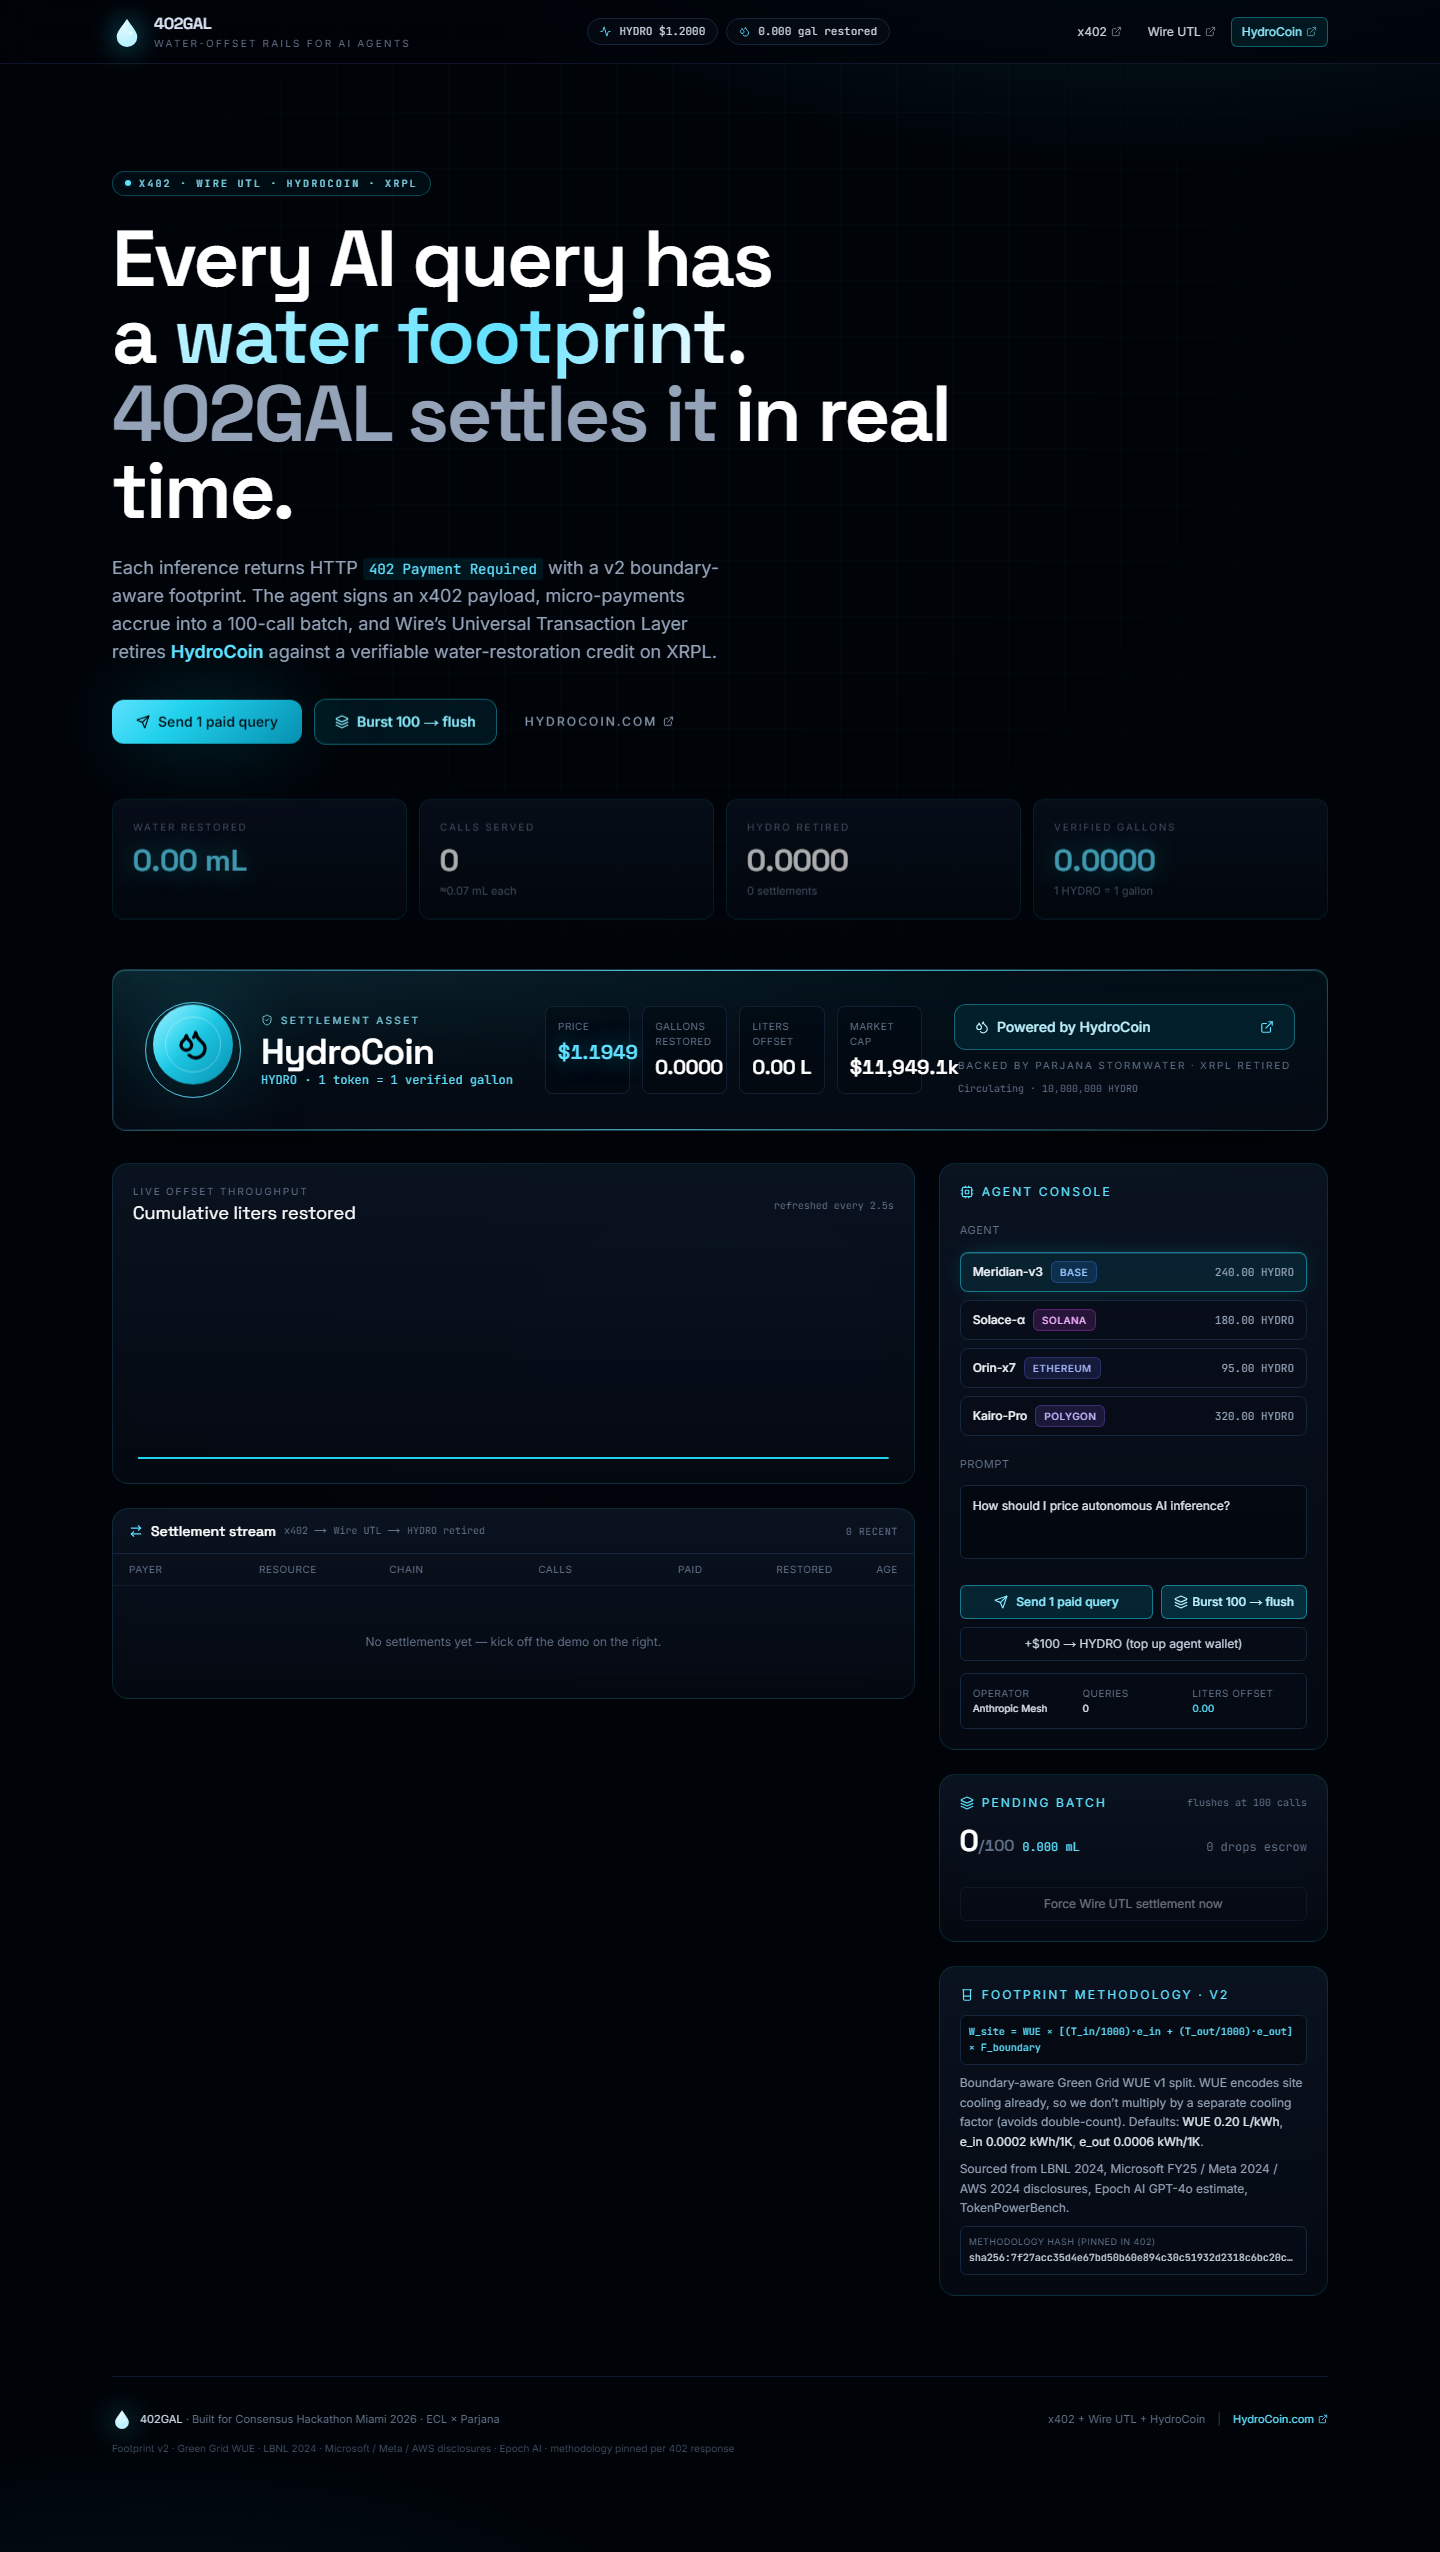
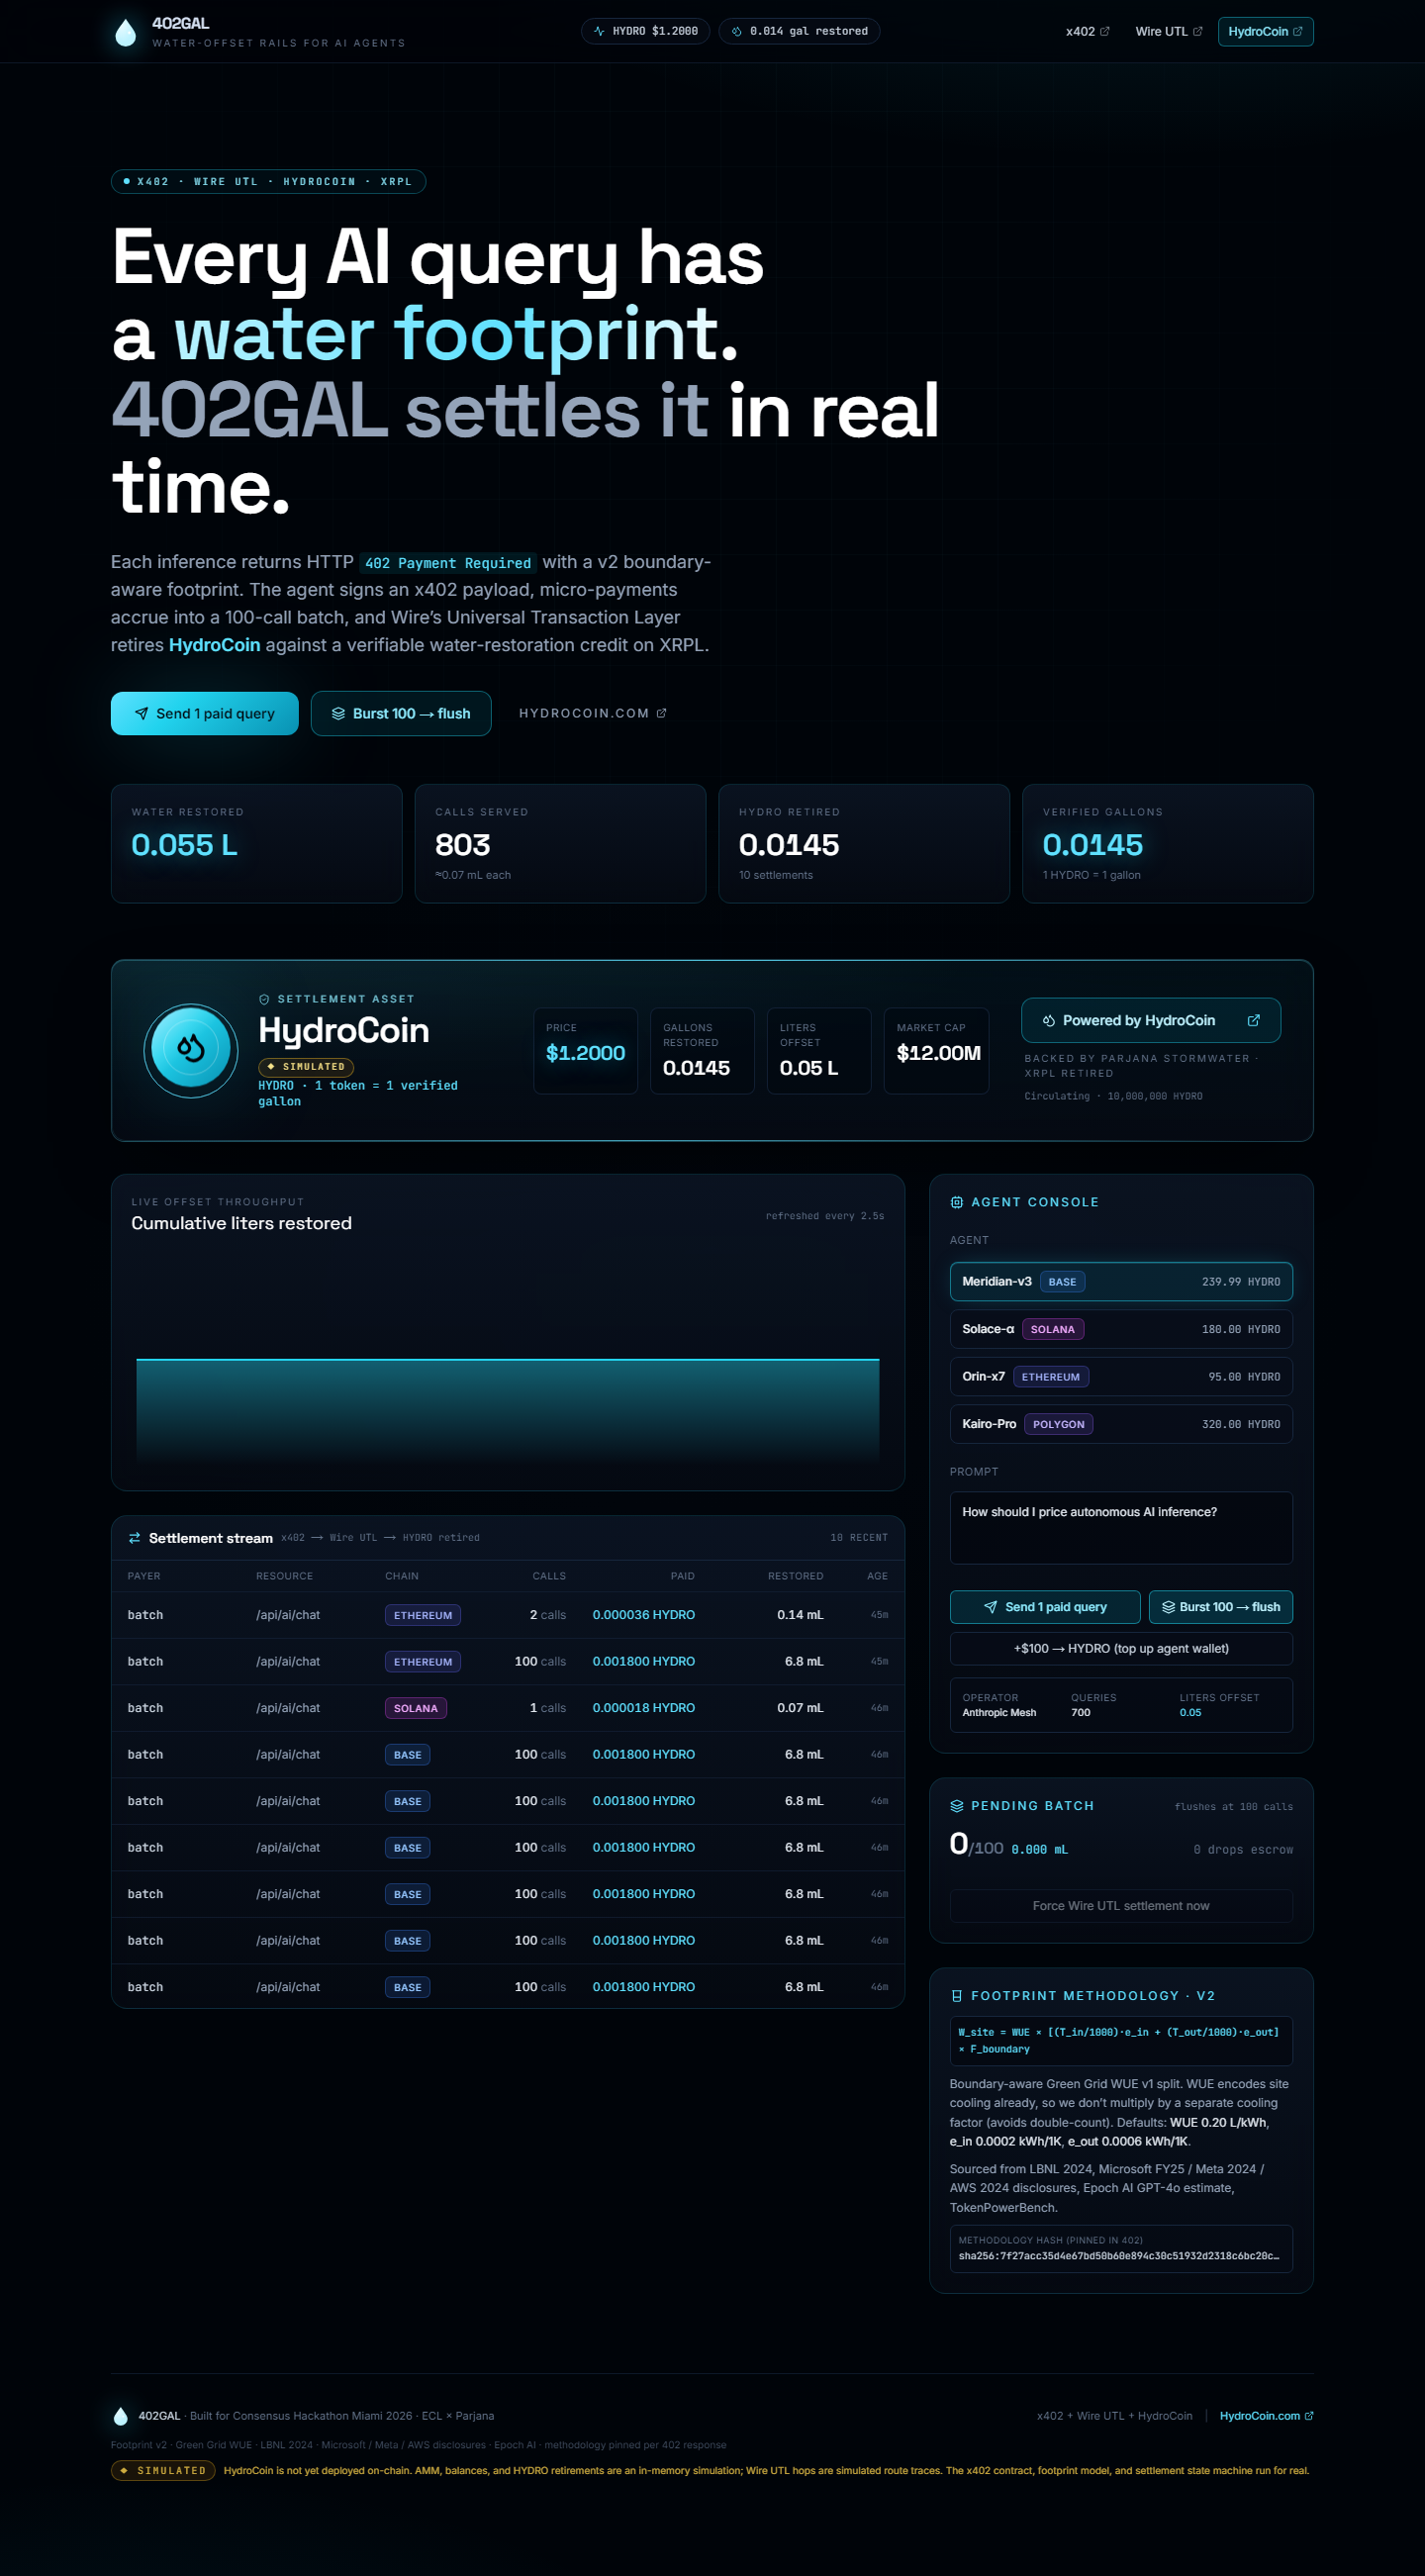
rebrand to 402gal + simulation disclosures + ssr-safe counters

diff --git a/components/AnimatedNumber.tsx b/components/AnimatedNumber.tsx
@@ -1,7 +1,6 @@
 "use client";
 
-import { useEffect, useRef } from "react";
-import { animate, useMotionValue, useTransform, motion } from "framer-motion";
+import { useEffect, useRef, useState } from "react";
 
 interface Props {
   value: number;
@@ -12,7 +11,11 @@ interface Props {
   suffix?: string;
 }
 
-/** Smooth tween between value changes. Tabular numerals so width stays stable. */
+/**
+ * SSR-safe smooth-counter. Always renders the formatted value as plain text
+ * (no framer MotionValue), so the very first paint shows real numbers — not
+ * an empty box. On prop change it eases from current to new with cubic-out.
+ */
 export function AnimatedNumber({
   value,
   decimals = 0,
@@ -21,24 +24,41 @@ export function AnimatedNumber({
   prefix = "",
   suffix = "",
 }: Props) {
-  const mv = useMotionValue(value);
-  const display = useTransform(mv, (v) => {
-    const formatted = v.toLocaleString(undefined, {
-      minimumFractionDigits: decimals,
-      maximumFractionDigits: decimals,
-    });
-    return `${prefix}${formatted}${suffix}`;
-  });
-  const prev = useRef(value);
+  const [displayed, setDisplayed] = useState(value);
+  const fromRef = useRef(value);
+  const startRef = useRef<number | null>(null);
+  const rafRef = useRef<number | null>(null);
 
   useEffect(() => {
-    const controls = animate(mv, value, {
-      duration,
-      ease: [0.16, 1, 0.3, 1],
-    });
-    prev.current = value;
-    return controls.stop;
-  }, [value, duration, mv]);
+    if (rafRef.current != null) cancelAnimationFrame(rafRef.current);
+    fromRef.current = displayed;
+    startRef.current = null;
+    const to = value;
+    const ms = Math.max(0.05, duration) * 1000;
 
-  return <motion.span className={`tick ${className}`}>{display}</motion.span>;
+    const tick = (now: number) => {
+      if (startRef.current == null) startRef.current = now;
+      const t = Math.min(1, (now - startRef.current) / ms);
+      const eased = 1 - Math.pow(1 - t, 3);
+      setDisplayed(fromRef.current + (to - fromRef.current) * eased);
+      if (t < 1) rafRef.current = requestAnimationFrame(tick);
+    };
+    rafRef.current = requestAnimationFrame(tick);
+    return () => {
+      if (rafRef.current != null) cancelAnimationFrame(rafRef.current);
+    };
+    // eslint-disable-next-line react-hooks/exhaustive-deps
+  }, [value, duration]);
+
+  const formatted = displayed.toLocaleString(undefined, {
+    minimumFractionDigits: decimals,
+    maximumFractionDigits: decimals,
+  });
+  return (
+    <span className={`tick ${className}`}>
+      {prefix}
+      {formatted}
+      {suffix}
+    </span>
+  );
 }

diff --git a/components/HydroCoinPanel.tsx b/components/HydroCoinPanel.tsx
@@ -34,9 +34,9 @@ export function HydroCoinPanel({
         <div className="absolute -inset-x-20 top-0 h-px bg-gradient-to-r from-transparent via-hydro-300/70 to-transparent" />
       </div>
 
-      <div className="relative grid grid-cols-1 gap-8 lg:grid-cols-[auto,1fr,auto] lg:items-center">
+      <div className="relative grid grid-cols-1 gap-6 lg:grid-cols-12 lg:items-center lg:gap-8">
         {/* ── Coin orb ── */}
-        <div className="flex items-center gap-5">
+        <div className="flex items-center gap-5 lg:col-span-4">
           <div className="relative h-20 w-20 shrink-0 sm:h-24 sm:w-24">
             <span className="ring-pulse" />
             <span className="ring-pulse" style={{ animationDelay: "0.8s" }} />
@@ -54,8 +54,16 @@ export function HydroCoinPanel({
             <div className="flex items-center gap-2 text-[10px] uppercase tracking-[0.24em] text-hydro-200/80">
               <ShieldCheck size={12} /> Settlement asset
             </div>
-            <div className="mt-1 font-display text-3xl font-semibold tracking-tight text-white sm:text-4xl">
-              HydroCoin
+            <div className="mt-1 flex flex-wrap items-center gap-2">
+              <span className="font-display text-3xl font-semibold tracking-tight text-white sm:text-4xl">
+                HydroCoin
+              </span>
+              <span
+                title="HydroCoin is not yet deployed on-chain. AMM, balances, and HYDRO retirements shown here are an in-memory simulation of the constant-product economics."
+                className="inline-flex items-center gap-1 rounded-full border border-amber-400/40 bg-amber-500/10 px-2 py-0.5 font-mono text-[9px] uppercase tracking-[0.18em] text-amber-200"
+              >
+                ◆ Simulated
+              </span>
             </div>
             <div className="font-mono text-xs text-hydro-300">
               HYDRO · 1 token = 1 verified gallon
@@ -64,7 +72,7 @@ export function HydroCoinPanel({
         </div>
 
         {/* ── Live stats ── */}
-        <div className="grid grid-cols-2 gap-3 sm:grid-cols-4 lg:grid-cols-2 xl:grid-cols-4">
+        <div className="grid grid-cols-2 gap-3 sm:grid-cols-4 lg:col-span-5 lg:grid-cols-4">
           <Tile label="Price" accent>
             <AnimatedNumber value={priceUSDC} decimals={4} prefix="$" />
           </Tile>
@@ -76,16 +84,16 @@ export function HydroCoinPanel({
           </Tile>
           <Tile label="Market cap">
             <AnimatedNumber
-              value={marketCap / 1000}
-              decimals={1}
+              value={marketCap / 1_000_000}
+              decimals={2}
               prefix="$"
-              suffix="k"
+              suffix="M"
             />
           </Tile>
         </div>
 
         {/* ── CTA ── */}
-        <div className="flex flex-col gap-2">
+        <div className="flex flex-col gap-2 lg:col-span-3">
           <a
             href="https://www.hydrocoin.com/"
             target="_blank"

diff --git a/components/Dashboard.tsx b/components/Dashboard.tsx
@@ -877,6 +877,17 @@ function Footer() {
         Footprint v2 · Green Grid WUE · LBNL 2024 · Microsoft / Meta / AWS
         disclosures · Epoch AI · methodology pinned per 402 response
       </div>
+      <div className="mt-2 flex flex-wrap items-center gap-2 text-[10px] text-amber-300/80">
+        <span className="inline-flex items-center gap-1 rounded-full border border-amber-400/30 bg-amber-500/10 px-2 py-0.5 font-mono uppercase tracking-[0.18em]">
+          ◆ Simulated
+        </span>
+        <span>
+          HydroCoin is not yet deployed on-chain. AMM, balances, and HYDRO
+          retirements are an in-memory simulation; Wire UTL hops are
+          simulated route traces. The x402 contract, footprint model, and
+          settlement state machine run for real.
+        </span>
+      </div>
     </footer>
   );
 }

diff --git a/app/api/agents/route.ts b/app/api/agents/route.ts
@@ -1,6 +1,6 @@
 import { ledger } from "@/lib/ledger";
 
-export const runtime = "edge";
+export const runtime = "nodejs";
 
 export async function GET() {
   return Response.json({ agents: Array.from(ledger().agents.values()) });

diff --git a/app/api/ai/chat/route.ts b/app/api/ai/chat/route.ts
@@ -9,7 +9,7 @@ import { addToBatch, drainBatch, ledger } from "@/lib/ledger";
 import { settleBatch } from "@/lib/wire";
 import { BATCH_SIZE } from "@/lib/constants";
 
-export const runtime = "edge";
+export const runtime = "nodejs";
 
 const RESOURCE = "/api/ai/chat";
 

diff --git a/app/api/amm/buy/route.ts b/app/api/amm/buy/route.ts
@@ -4,7 +4,7 @@ import { NextRequest } from "next/server";
 import { executeBuyHydro } from "@/lib/amm";
 import { ledger } from "@/lib/ledger";
 
-export const runtime = "edge";
+export const runtime = "nodejs";
 
 export async function POST(req: NextRequest) {
   const { agentId, usdc } = await req.json();

diff --git a/app/api/batch/flush/route.ts b/app/api/batch/flush/route.ts
@@ -5,7 +5,7 @@
 import { drainBatch, ledger } from "@/lib/ledger";
 import { settleBatch } from "@/lib/wire";
 
-export const runtime = "edge";
+export const runtime = "nodejs";
 
 export async function POST() {
   const before = ledger().pendingTotals.calls;

diff --git a/app/api/demo/run/route.ts b/app/api/demo/run/route.ts
@@ -8,7 +8,7 @@ import { buildRequirement, encodePayment } from "@/lib/x402";
 import { ledger } from "@/lib/ledger";
 import { PaymentPayload } from "@/lib/types";
 
-export const runtime = "edge";
+export const runtime = "nodejs";
 
 const RESOURCE = "/api/ai/chat";
 

diff --git a/app/api/state/route.ts b/app/api/state/route.ts
@@ -5,7 +5,7 @@ import { marketCapUSDC, priceUSDC } from "@/lib/amm";
 import { BATCH_SIZE, DROPS_PER_HYDRO } from "@/lib/constants";
 import { FOOTPRINT_METHODOLOGY_HASH } from "@/lib/footprint";
 
-export const runtime = "edge";
+export const runtime = "nodejs";
 export const dynamic = "force-dynamic";
 
 export async function GET() {

diff --git a/app/api/x402/verify/route.ts b/app/api/x402/verify/route.ts
@@ -8,7 +8,7 @@ import { addToBatch, drainBatch } from "@/lib/ledger";
 import { settleBatch } from "@/lib/wire";
 import { PaymentPayload, PaymentRequirement } from "@/lib/types";
 
-export const runtime = "edge";
+export const runtime = "nodejs";
 
 export async function POST(req: NextRequest) {
   const { requirement, payload } = (await req.json()) as {

diff --git a/README.md b/README.md
@@ -1,9 +1,9 @@
-# Meraxis
+# 402GAL
 
 **Water-offset rails for AI agents.** Built for the Consensus Hackathon.
 
 > Every AI inference consumes freshwater (data-center cooling, power
-> generation). Meraxis intercepts agent traffic with an HTTP `402 Payment
+> generation). 402GAL intercepts agent traffic with an HTTP `402 Payment
 > Required` response per the [x402 protocol](https://www.x402.org/), the agent
 > auto-pays in **HydroCoin (HYDRO)**, and the payment is settled cross-chain
 > through [Wire Network's Universal Transaction Layer](https://wire.network)
@@ -14,7 +14,7 @@
 
 ```
 ┌────────────┐    402 + reqs    ┌────────────────┐
-│  AI agent  │ ───────────────▶ │ Meraxis server │
+│  AI agent  │ ───────────────▶ │  402GAL server │
 │ (Base/Sol/ │ ◀─── X-PAYMENT ──│   (x402 host)  │
 │  Eth/Poly) │                  └───────┬────────┘
 └─────┬──────┘                          │ verify + route
@@ -83,7 +83,7 @@ GPT-4-class call is **0.068 mL** ≈ **18 HYDRO drops** (1 HYDRO = 1 US gallon).
 ## Batching
 
 Per-call settlements would be 18 drops each — illegible on screen and
-wasteful on chain. Meraxis aggregates micro-payments into a 100-call batch
+wasteful on chain. 402GAL aggregates micro-payments into a 100-call batch
 (or 60s window), then a single Wire UTL settlement locks the funds, mints a
 universal-receipt, and retires HYDRO. The dashboard's *Pending batch* panel
 shows the fill state in real time; the *Burst 100 → flush* button drives a
@@ -92,12 +92,26 @@ visible cycle.
 ## Why this matters
 
 A typical GPT-4-class inference is ~0.07 mL. **1 billion calls/day = 68,000 L
-= one swimming pool, every day** — today, with no settlement layer. Meraxis
+= one swimming pool, every day** — today, with no settlement layer. 402GAL
 turns that hidden externality into a programmable, agent-native payment
 using primitives (x402, Wire UTL) that already exist.
 
 ## Status
 
-Hackathon prototype. The Wire UTL hops are simulated; the protocol shape,
-x402 contract, and HydroCoin AMM are functional. Swap the bridge module for
-a real UTL relay client to ship.
+Hackathon prototype. **HydroCoin is not yet live on-chain** — the AMM,
+balances, and HYDRO retirements in this repo are an in-memory simulation
+of the constant-product economics, not a deployed XRPL token. The Wire UTL
+bridge hops are likewise simulated. What *is* real and runnable here:
+
+- the **x402 v1 "exact" scheme** (requirement build, payload encode/decode,
+  signature verify) over real HTTP `402` responses,
+- the **v2 boundary-aware Green Grid WUE footprint model** with a pinned
+  methodology hash returned in every 402 body,
+- the **batching / settlement state machine** (per-call escrow → 100-call
+  batch → single retirement event),
+- and the agent-side `meraxisFetch()` SDK that round-trips a 402 → pay → 200.
+
+To ship for real you would (a) deploy HydroCoin as an XRPL IOU or fungible
+token and point `lib/amm.ts` at on-chain reserves, and (b) swap
+`lib/wire.ts` for a real Wire Network UTL relay client. Both are
+single-file integration points by design.